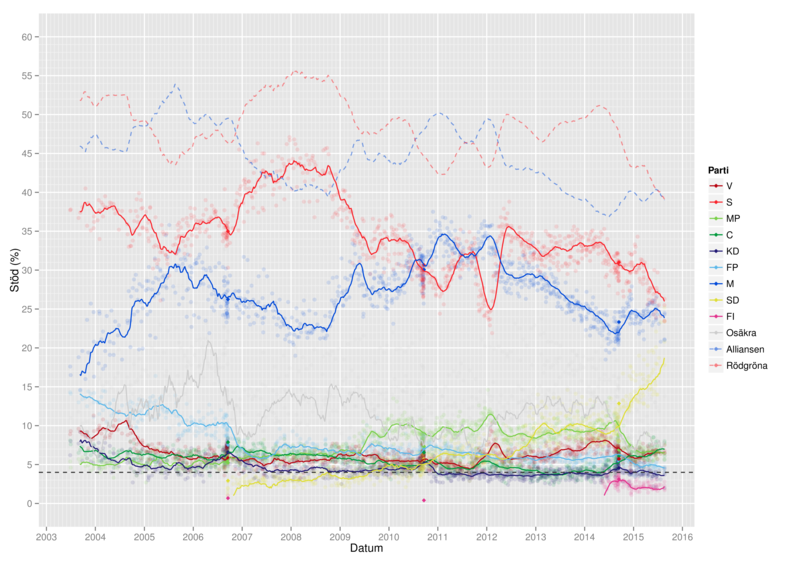
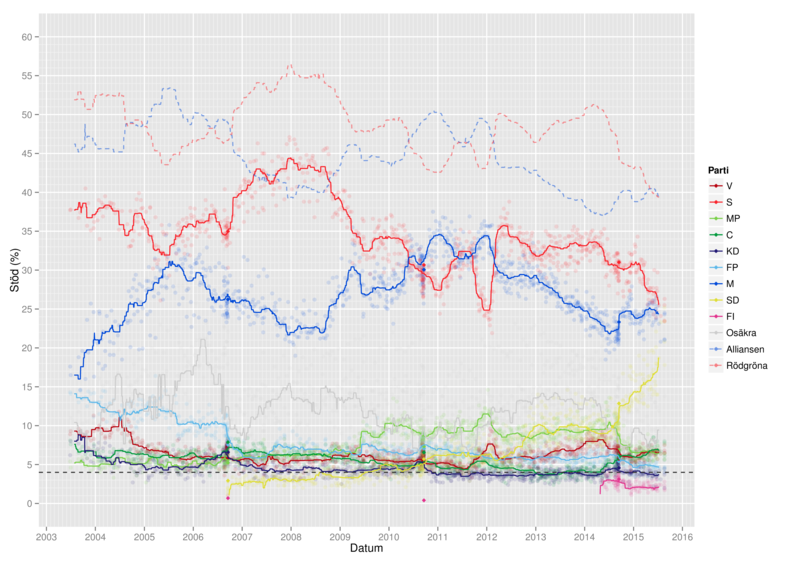
polls: use centerer simple moving median

diff --git a/polls/README.md b/polls/README.md
@@ -3,6 +3,6 @@
 ![Swedish poll of polls](sample.png?raw=true)
 
 This R script fetches data from [MansMeg/SwedishPolls][swedishpolls] and uses that data to provide a weighted "poll of polls" of Swedish election polls.
-The polls are expanded to cover their collection period, then weighted by number of respondents per survey day. Then, a rolling average over 84 days is plotted.
+The polls are expanded to cover their collection period, then weighted by number of respondents per survey day. Then, a centered simple moving median over 84 days is plotted.
 
 [swedishpolls]: https://github.com/MansMeg/SwedishPolls
